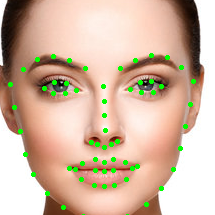
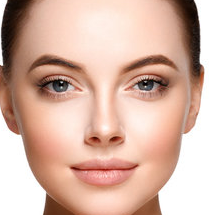
added folder

diff --git a/Morphing/face.py b/Morphing/face.py
@@ -1,0 +1,112 @@
+import numpy as np
+import cv2 as cv
+import dlib
+from warp import triangulate
+
+def crop_faces(image1_path, image2_path):
+    cropped_faces_list = []
+    for img in [image1_path, image2_path]:
+        image = cv.imread(img)
+
+        # convert to grayscale of each frames
+        gray = cv.cvtColor(image, cv.COLOR_BGR2GRAY)
+
+        # read the haarcascade to detect the faces in an image
+        face_cascade = cv.CascadeClassifier(cv.data.haarcascades + 'haarcascade_frontalface_default.xml')
+        
+        # detects faces in the input image
+        faces = face_cascade.detectMultiScale(gray, 1.3, 4)
+        print('Number of detected faces:', len(faces))
+
+        # Crop and save each detected face
+        cropped_faces = []
+        if len(faces) > 0:
+            for (x, y, w, h) in faces:
+                cropped_faces.append(image[y: y + h, x:x + w])
+
+        cropped_faces_list.append(cropped_faces)
+    
+    return cropped_faces_list
+
+def generate_face_correspondeces(theImage1, theImage2):
+    # Detect the points of face.
+    detector = dlib.get_frontal_face_detector()
+    predictor = dlib.shape_predictor('shape_predictor_68_face_landmarks.dat')
+
+    imgList = crop_faces(theImage1, theImage2)
+    list1 = []
+    list2 = []
+    feature_points = []
+    cropped_images = []
+    j = 1
+
+    for m, img_list in enumerate(imgList):
+        for img in img_list:
+
+            if (j == 1):
+                currList = list1
+            else:
+                currList = list2
+
+            # Ask the detector to find the bounding boxes of each face. The 1 in the
+            # second argument indicates that we should upsample the image 1 time. This
+            # will make everything bigger and allow us to detect more faces.
+
+            dets = detector(img, 1)
+
+            try:
+                if len(dets) == 0:
+                    raise NoFaceFound  # type: ignore
+            except NoFaceFound: # type: ignore
+                print("Sorry, but I couldn't find a face in the image.")
+
+            j = j + 1
+
+            for k, rect in enumerate(dets):
+
+                # Get landmarks/part for the face in rect
+                shape = predictor(img, rect)
+                
+                for i in range(0, 68):
+                    x = shape.part(i).x
+                    y = shape.part(i).y
+                    currList.append((x, y))
+                    #cv.circle(img, (x, y), 1, (0, 255, 0), 2)
+            
+            feature_points.append(currList)
+            cropped_images.append(img)
+
+            cv.imwrite(f"test_{m}.png", img)
+
+
+    return feature_points, cropped_images
+
+
+img1 = './Images/mulher1.jpg'
+img2 = './Images/homem.jpg'
+
+feature_points, cropped_images = generate_face_correspondeces(img1, img2)
+
+img_shape = []
+
+for i, image in enumerate(cropped_images):
+    #triangulate(image, feature_points[i])
+
+    img_shape.append((image.shape[1], image.shape[0]))
+
+src_pts = np.asarray(feature_points[1], dtype=np.float32)
+dst_pts = np.asarray(feature_points[0], dtype=np.float32)
+
+transformMatrix = cv.estimateAffine2D(src_pts, dst_pts)
+
+warped_img = cv.warpAffine(cropped_images[1], transformMatrix[0], img_shape[0])
+
+# Blending
+
+alpha = 0.5  # Weight for the first image
+beta = 1.0 - alpha  # Weight for the second image
+blended_img = cv.addWeighted(warped_img, alpha, cropped_images[0], beta, 0)
+
+cv.imshow("Blend", blended_img)
+cv.waitKey(0)
+

diff --git a/Morphing/warp.py b/Morphing/warp.py
@@ -1,0 +1,35 @@
+import numpy as np
+import cv2 as cv
+
+def triangulate(image, points):
+
+    # Create Subdiv2D object
+    rect = (0, 0, image.shape[0], image.shape[1])  # Rectangle covering the entire image
+    triangulation = cv.Subdiv2D(rect)
+
+      # Insert points into triangulation object
+    valid_points = []  # List to store valid points within the image bounds
+    for point in points:
+        x, y = point
+        if 0 <= x < image.shape[1] and 0 <= y < image.shape[0]:  # Check if point is within image bounds
+            triangulation.insert((x, y))
+            valid_points.append((x, y))
+        
+    # Get triangles
+    triangleList1 = triangulation.getTriangleList()
+
+    # Draw triangles on the image (optional)
+    for t in triangleList1:
+        pt1 = (int(t[0]), int(t[1]))
+        pt2 = (int(t[2]), int(t[3]))
+        pt3 = (int(t[4]), int(t[5]))
+        cv.line(image, pt1, pt2, (0, 255, 0), 1, cv.LINE_AA)
+        cv.line(image, pt2, pt3, (0, 255, 0), 1, cv.LINE_AA)
+        cv.line(image, pt3, pt1, (0, 255, 0), 1, cv.LINE_AA)
+
+    # Show or return the triangulated image (optional)
+    cv.imshow('Triangulated Image', image)
+    cv.waitKey(0)
+    cv.destroyAllWindows()
+
+    return valid_points

diff --git a/Morphing/README.md b/Morphing/README.md
@@ -46,5 +46,4 @@ The facial landmark detector will give us the estimated location of 68 (x, y) pa
 
 <p align="center">68 points selection on Image 0 and Image 1 from dlib’s facial landmarks</p>
 
-
 In addition to the 68 facial feature points, we also need to select some points outside of the face to include the background into the morphing frames. To make sure the background is included, we need to select at least 4 points (4 corners), here we will use 8 points (4 corners + 4 center points from each edge) to make the transition more smooth.
